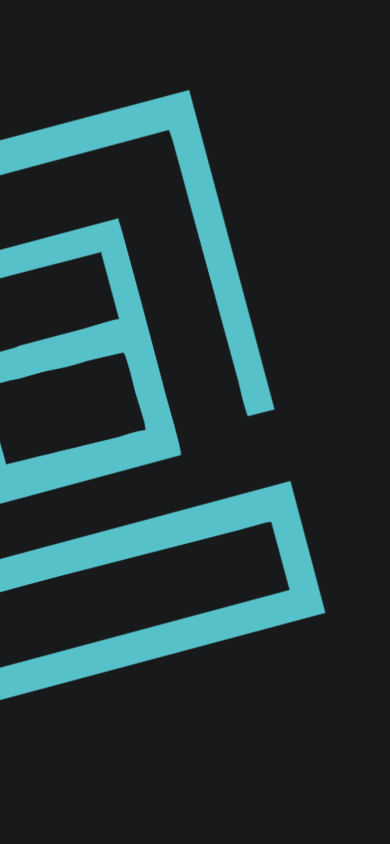
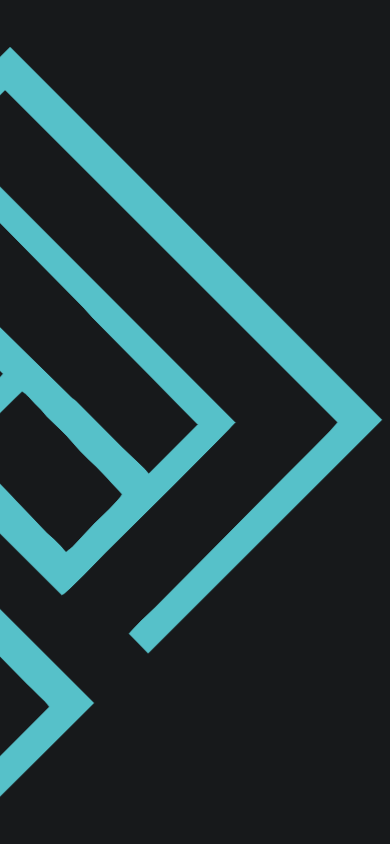
release: v1.3.1 - enlarged state lands at the exact 45-degree diamond pose (spin 360 at max size; dock holds it)

Changed region(s): [[0.0, 0.0616, 0.9846, 0.955]]

diff --git a/assets/js/main.js b/assets/js/main.js
@@ -258,13 +258,13 @@
     p = clamp01(p);
 
     /* one continuous clockwise turn: spin + shrink (0.10–0.36), hold while the
-       side copy shows (0.36–0.66), rotate-left + grow to the half-clipped
-       state (0.66–0.86), then travel down into the footer dock (0.86–0.96;
-       ends upright at 360°) */
+       side copy shows (0.36–0.66), rotate-left + grow, arriving at the
+       enlarged half-clipped state exactly at spin 360 — the mark's exact
+       45-degree diamond pose (0.66–0.86) — then travel down to the footer
+       dock holding that upright pose (0.86–0.96) */
     var spin =
       A.spinTurns * (180 * cub(p, 0.10, 0.36) +
-        120 * cub(p, 0.66, 0.86) +
-        60 * cub(p, 0.86, 0.96));
+        180 * cub(p, 0.66, 0.86));
 
     var sF, targetX = geo.vw / 2, targetY = geo.vh / 2;
     if (p <= 0.36) {

diff --git a/qa/qa-report.md b/qa/qa-report.md
@@ -1,8 +1,8 @@
-# QA report — logo-sequence site (v1.3.0 round)
+# QA report — logo-sequence site (v1.3.1 round)
 
-- Revision: `1e466bb` · generated 2026-09-28T17:26:54.765Z
+- Revision: `dc85848` · generated 2026-09-29T17:10:46.105Z
 - Environment: win32 x64 · Node v22.22.0 · puppeteer-core 25.12.0
-- Chrome: Chrome/153.0.8010.54 · Edge: Edg/154.0.4258.37
+- Chrome: Chrome/154.0.8037.58 · Edge: Edg/154.0.4258.37
 - Method: puppeteer-core only; local CSP-mirror server; deterministic states via `?qa=`;
   dock measured once pinned and once at maximum scroll (live).
 - Labels: PASS/FAIL = instrumented vs threshold; OBSERVED = judged artefact; INFO = recorded; NOT PERFORMED = no runtime.
@@ -16,10 +16,10 @@
 | a | programmes: 4–7 photo slots present, ordered hero→programmes→footer | PASS | {"cards":6,"ordered":true} | gallery between hero and footer; 4–7 cards each with img/alt/title/text | evidence/a/nav-sweep.json |
 | a | source audit: no dead placeholders; gallery assets present | PASS | {"deadRefs":0,"galleryRefs":6,"slots":6,"missing":0,"imgFiles":6} | no hero__copy/hint/indicator/rm-mark refs; every gallery slot points at an existing file | evidence/a/removal-audit.txt |
 | b | intro: big wordmark centered on dark gray, unclipped | PASS | [{"vp":"1280x800","dx":0,"dy":0,"frameW":979.7,"expectedW":979.7,"sizeOk":true,"notClipped":true,"bg":"rgb(23, 25, 27)","spin":0,"markOpacity":0,"wordOpacity":1,"sideOp":0},{"vp":"1440x900","dx":0,"dy":0,"frameW":1102.2,"expectedW":1102.2,"sizeOk":true,"notClipped":true,"bg":"rgb(23, 25, 27)","spin":0,"markOpacity":0," | hero size == min(92vw, 96vh*1.2757, 1600px) ±3; centered ±8px; fully in viewport; side copy hidden; bg rgb(23,25,27) | evidence/a/intro-1440x900.png<br>evidence/a/intro-audit.json |
-| c | motion trace (60 steps) | PASS | {"mapErr":0,"monoSpin":true,"spinEnd":360,"maxSpinStep":31.7,"maxPosStep":301,"orderOk":true,"opacityOk":true,"cEndTx":-515.71,"dEndTy":382.57} | clockwise monotonic to 360±0.5; spin in place; side-copy hold with centred mark; left travel on the middle line; dock travel right+down; swap opacity sum=1 | evidence/b/motion-trace.json |
+| c | motion trace (60 steps) | PASS | {"mapErr":0,"monoSpin":true,"spinEnd":360,"maxSpinStep":41.2,"maxPosStep":300.4,"orderOk":true,"opacityOk":true,"cEndTx":-719.15,"dEndTy":382.57} | clockwise monotonic to 360±0.5; spin in place; side-copy hold with centred mark; left travel on the middle line; enlarged state at exact 45-degree pose; dock travel right+down; swap opacity sum=1 | evidence/b/motion-trace.json |
 | c | settle / no-oscillation / idle-stability | PASS | {"settleOk":true,"p":0.41667,"mapP":0.41667,"reversals":0,"idleDelta":0} | p==mapping after stop (0.002); <=2 reversals; idle delta 0 | — |
 | c | determinism (same scrollY twice) | PASS | identical serialized transforms | identical | — |
-| c | enlarged state: half clipped at the left edge, no overflow | PASS | [{"vp":"1280x800","visFrac":0.502,"markCx":1.3,"overflow":0,"ok":true},{"vp":"1440x900","visFrac":0.502,"markCx":1.5,"overflow":0,"ok":true},{"vp":"1920x1080","visFrac":0.502,"markCx":1.8,"overflow":0,"ok":true},{"vp":"390x844","visFrac":0.502,"markCx":1.3,"overflow":0,"ok":true}] | visible width fraction 0.42-0.58 at max size; scrollWidth overflow 0 | evidence/b/halfclip-audit.json<br>evidence/b/halfclip-1440x900.png |
+| c | enlarged state: half clipped, exact 45-degree pose, no overflow | PASS | [{"vp":"1280x800","visFrac":0.503,"markCx":2.6,"spin":360,"overflow":0,"ok":true},{"vp":"1440x900","visFrac":0.503,"markCx":3,"spin":360,"overflow":0,"ok":true},{"vp":"1920x1080","visFrac":0.503,"markCx":3.5,"spin":360,"overflow":0,"ok":true},{"vp":"390x844","visFrac":0.503,"markCx":2.6,"spin":360,"overflow":0,"ok":tru | visible width fraction 0.42-0.58 at max size; spin 360±1 (exact 45-degree diamond pose); scrollWidth overflow 0 | evidence/b/halfclip-audit.json<br>evidence/b/halfclip-1440x900.png |
 | c | side copy: text beside the small symbol, then gone before the growth | PASS | [{"vp":"1440x900","centered":true,"visible":true,"noGhost":true,"noOverlap":true,"mcx":718.9,"mcy":450,"rMark":162.9,"ok":true,"goneAt07":[0,0]},{"vp":"390x844","centered":true,"visible":true,"noGhost":true,"noOverlap":true,"mcx":194.7,"mcy":422,"rMark":50.7,"ok":true,"goneAt07":[0,0]}] | both blocks fully visible + clear of the mark at p=0.5; centred mark; wordmark fully swapped (no ghost); hidden by p=0.7 | evidence/b/sidecopy-audit.json<br>evidence/b/sidetext-1440x900.png |
 | d | hero end: mark docked upright just above the bottom edge | PASS | [{"vp":"1440x900","center":[720.7,775.8],"expY":775.8,"spin":360,"overflow":0,"ok":true},{"vp":"834x1112","center":[417.8,972.1],"expY":972.1,"spin":360,"overflow":0,"ok":true},{"vp":"390x844","center":[195.7,726.5],"expY":726.5,"spin":360,"overflow":0,"ok":true}] | centre == (vw/2, vh−dockR−20) ±6; spin 360±1.5; fully visible; no overflow | evidence/b/herodock-audit.json |
 | d | landing: centred in the footer band, fully visible, upright | PASS | [{"vp":"1280x800","center":[640,562.8],"bandCy":562.4,"bandCx":640,"frac":1,"size":199.1,"dockD":199.1,"centered":true,"sizeOk":true,"upright":true,"overflow":0,"ok":true},{"vp":"1440x900","center":[720,652.3],"bandCy":651.8,"bandCx":720,"frac":1,"size":208.3,"dockD":208.3,"centered":true,"sizeOk":true,"upright":true," | centre == (viewport/2, footer band centre) ±6/±8px; visible fraction >= 0.9; size == configured ±6; no rotation; overflow 0 | evidence/d/dock-audit.json<br>evidence/b/dock-1440x900.png |
@@ -29,8 +29,8 @@
 | f | footer: links land + contact/legal intact | PASS | {"landings":[{"label":"Our story","href":"#story","top":0},{"label":"Programmes","href":"#programmes","top":0},{"label":"Get in touch","href":"#contact","top":476.7},{"label":"Back to top","href":"#top","top":0}],"contactCheck":{"emailText":true,"emailHref":true,"phoneHref":true,"address":true,"legal":true}} | 4 links land within viewport; mailto/tel formats; texts == content | evidence/f/footer-links.json<br>evidence/f/footer-1440x900.png |
 | g | responsive: no overflow at max size and landing; gallery columns adapt | PASS | [{"vp":"360x740","ok":true,"overflow@0.86":0,"overflow@1":0,"galleryCols":1},{"vp":"768x1024","ok":true,"overflow@0.86":0,"overflow@1":0,"galleryCols":2},{"vp":"1280x800","ok":true,"overflow@0.86":0,"overflow@1":0,"galleryCols":3},{"vp":"1440x900","ok":true,"overflow@0.86":0,"overflow@1":0,"galleryCols":3},{"vp":"1920x | scrollWidth overflow <= 1px in both states; no horizontal scrollbar; gallery grid 3/2/1 columns by width | evidence/g/responsive.json |
 | h | reduced motion: static logo fully visible in hero and footer; gallery static | PASS | {"top":{"x":203.34375,"y":36,"r":1236.65625,"b":846},"end":{"x":615.84375,"y":548.78125,"r":824.15625,"b":755.84375},"bandCy":651.8,"frameComputed":"none","side":"none","gallery":{"count":6,"op":1,"imgOK":true,"inView":true}} | no transforms; no side copy; wordmark fully in viewport; landing centred; gallery cards visible without reveal effects | evidence/h/reduced-1440-full.png |
-| i | perf: zero errors, local-only | PASS | {"consoleErrors":0,"pageErrors":0,"failed":0,"hosts":{"localhost:8123":11},"resources":11,"transferBytes":66948} | 0 errors; localhost-only; no failed requests | evidence/i/perf.json |
-| i | CLS + frame cadence (headless) | INFO | {"cls":0,"frameMedianMs":6.9,"frameP95Ms":7.1} | informational only | — |
+| i | perf: zero errors, local-only | PASS | {"consoleErrors":0,"pageErrors":0,"failed":0,"hosts":{"localhost:8123":11},"resources":11,"transferBytes":67008} | 0 errors; localhost-only; no failed requests | evidence/i/perf.json |
+| i | CLS + frame cadence (headless) | INFO | {"cls":0,"frameMedianMs":6.9,"frameP95Ms":7} | informational only | — |
 | j | resize mid-sequence | PASS | {"p":[0.55,0.61875],"spin":180,"expSpin":180} | state re-renders consistently after resize | — |
 | j | fling (wheel bursts) | PASS | {"p":1,"mapP":1} | end state == mapping ±0.002 | — |
 | j | reload mid-sequence | PASS | {"scrollY":1080,"p":0.5,"mapP":0.5} | deterministic restore | — |
@@ -45,7 +45,7 @@
 - OBSERVED: 0
 - NOT PERFORMED: 0
 
-## Evidence files (93)
+## Evidence files (96)
 
 - `qa/evidence/a/intro-1280x800.png`
 - `qa/evidence/a/intro-1440x900.png`
@@ -134,9 +134,12 @@
 - `qa/evidence/rollback/dist-v1.0.0.zip`
 - `qa/evidence/rollback/dist-v1.1.0.zip`
 - `qa/evidence/rollback/dist-v1.2.0.zip`
+- `qa/evidence/rollback/dist-v1.3.0.zip`
 - `qa/evidence/rollback/tag-show-v1.1.0.txt`
 - `qa/evidence/rollback/tag-show-v1.2.0.txt`
+- `qa/evidence/rollback/tag-show-v1.3.0.txt`
 - `qa/evidence/rollback/tag-show.txt`
 - `qa/evidence/rollback/v1.0.0-intro.png`
 - `qa/evidence/rollback/v1.1.0-intro.png`
 - `qa/evidence/rollback/v1.2.0-intro.png`
+- `qa/evidence/rollback/v1.3.0-intro.png`

diff --git a/qa/qa-log.md b/qa/qa-log.md
@@ -1,10 +1,10 @@
-# QA log â€” environment, commands, honesty notes (v1.3.0)
+# QA log — environment, commands, honesty notes (v1.3.1)
 
 ## Environment
 
-- OS: win32 x64 Â· Node: v22.22.0 Â· puppeteer-core: 25.12.0
-- Chrome: Chrome/153.0.8010.54 Â· Edge: Edg/154.0.4258.37
-- Revision: 1e466bb Â· 2026-09-28T17:26:54.765Z
+- OS: win32 x64 · Node: v22.22.0 · puppeteer-core: 25.12.0
+- Chrome: Chrome/154.0.8037.58 · Edge: Edg/154.0.4258.37
+- Revision: dc85848 · 2026-09-29T17:10:46.105Z
 
 ## How to re-run
 
@@ -18,13 +18,13 @@ node qa/shot.mjs chrome <url> <w> <h> out.png [qa]
 
 | Browser | Status | Notes |
 |---------|--------|-------|
-| Chrome | EXECUTED â€” full suite | via puppeteer-core |
-| Edge | EXECUTED â€” subset | same Chromium engine as Chrome â€” not independent coverage |
-| Firefox | NOT PERFORMED â€” not installed | inspection-based notes only |
-| Safari / iOS Safari | NOT PERFORMED â€” cannot run on Windows | inspection-based notes only |
-| Android Chrome (device) | NOT PERFORMED â€” no device | viewport emulation only |
+| Chrome | EXECUTED — full suite | via puppeteer-core |
+| Edge | EXECUTED — subset | same Chromium engine as Chrome — not independent coverage |
+| Firefox | NOT PERFORMED — not installed | inspection-based notes only |
+| Safari / iOS Safari | NOT PERFORMED — cannot run on Windows | inspection-based notes only |
+| Android Chrome (device) | NOT PERFORMED — no device | viewport emulation only |
 
-Reduced-motion checks used DevTools emulation (`emulateMediaFeatures`) â€” labeled, not a real OS test.
+Reduced-motion checks used DevTools emulation (`emulateMediaFeatures`) — labeled, not a real OS test.
 
 ## Code-inspection risk notes (NOT test results)
 
@@ -35,10 +35,6 @@ Reduced-motion checks used DevTools emulation (`emulateMediaFeatures`) â€” 
 - scroll-driven animations API: absent (safe).
 - overflow: clip: used (Safari 16+; hidden fallback present on the sticky).
 
-## Rollback drill — executed evidence (v1.3.0)
-- Annotated tag v1.3.0 -> commit 381fb91dd6f9789c08148061145d131d7464bd67 (QA revision in qa-report.md = 1e466bb, the code parent; identical code tree).
-- Kept releases for one-step restore: v1.2.0, v1.1.0, v1.0.0 — tags + archives under qa/evidence/rollback/.
-- git show v1.3.0 --stat -> qa/evidence/rollback/tag-show-v1.3.0.txt
-- Worktree checkout smoke: a clean worktree of v1.3.0 served on port 8081; screenshot qa/evidence/rollback/v1.3.0-intro.png (1440x900; zero console errors; shot exit=0).
-- Archive: qa/evidence/rollback/dist-v1.3.0.zip; SHA-256: 38E819A25697F9DE1F32D911A833A4CB52CF586431422D470449F4CBB7CF3EA1
-- Limits: repository-level restore demonstrated on this machine; hosting/CDN rollback not covered. Remote: none configured.
+## Rollback drill
+
+See `qa/evidence/rollback/` (v1.3.1 + kept v1.3.0 / v1.2.0 / v1.1.0 / v1.0.0).

diff --git a/readme.md b/readme.md
@@ -3,10 +3,11 @@
 A single page built around one scroll-linked sequence: the logo starts **big**
 at the top, spins clockwise while shrinking, **side copy appears left and
 right of the small symbol**, then it **rotates left and grows** — ending up
-roughly **half clipped** past the left edge — and finally travels down and
-docks, upright, just above the bottom edge, handing off to a copy **centred
-inside the footer band**. Below the sequence sits the **programmes grid**
-(4–7 photo slots with text). No top navigation bar.
+roughly **half clipped** past the left edge, arriving exactly at the mark's
+**45° diamond pose** — and finally travels down and docks, upright, just above
+the bottom edge, handing off to a copy **centred inside the footer band**.
+Below the sequence sits the **programmes grid** (4–7 photo slots with text).
+No top navigation bar.
 
 No framework, no build step: plain HTML/CSS/JS. All content lives in one file.
 
@@ -47,7 +48,8 @@ server.js                      zero-dependency local preview server
 
 Scroll progress drives six states: **hold (big logo) → clockwise spin + shrink
 (wordmark swaps to the mark mid-turn) → side copy left/right of the small
-symbol → rotate left + grow until half is clipped → travel down to the dock →
+symbol → rotate left + grow until half is clipped, arriving exactly at the
+mark's 45° pose (spin 360) → travel down to the dock holding that pose →
 settle upright, centred horizontally, just above the bottom edge** (the footer
 below the programmes grid carries its own centred copy of the mark, so the
 end state at the very bottom of the page is "logo in the middle of the
